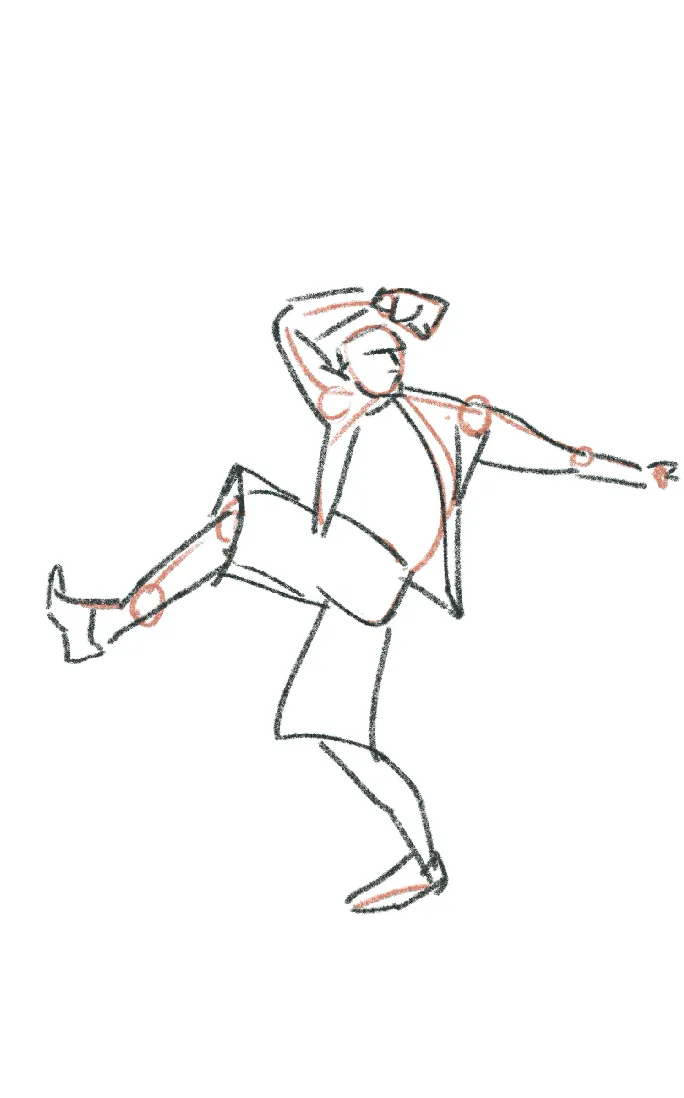
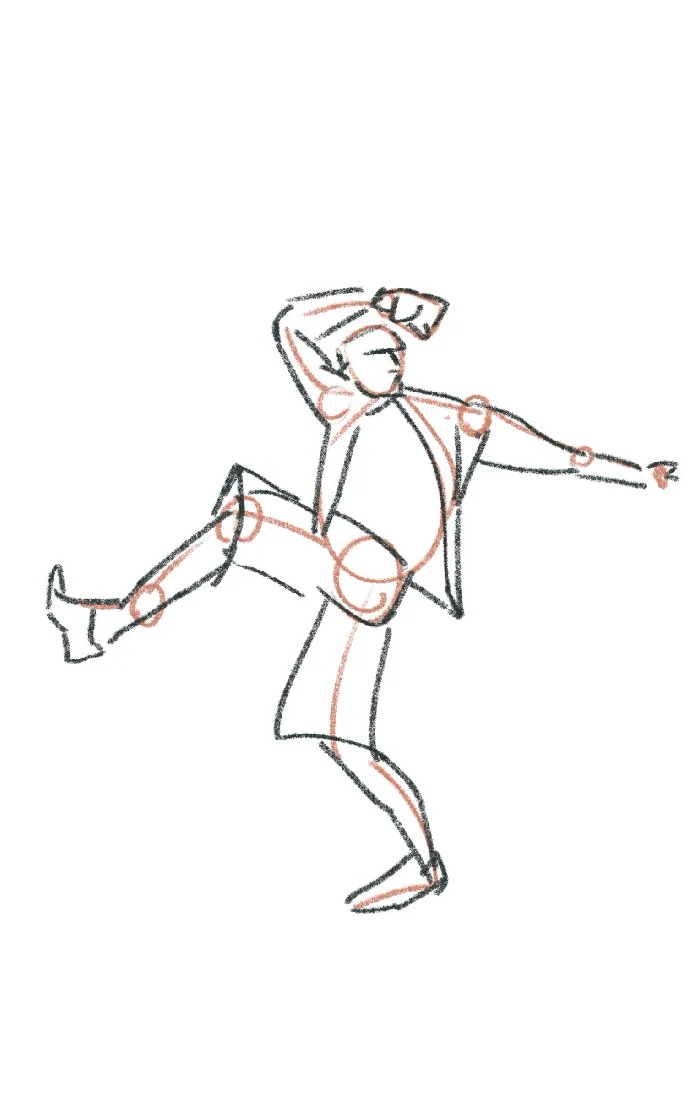
Time-lapse stops on the finished drawing

diff --git a/app/index.html b/app/index.html
@@ -62,7 +62,7 @@
         <img src="/assets/img/session.webp" width="1600" height="1090" alt="The session player running a one-minute pose of a dancer mid-kick, with the countdown and controls along the bottom" fetchpriority="high">
       </figure>
       <figure class="print clip">
-        <video class="tl-video" src="/assets/img/timelapse-1min.mp4" poster="/assets/img/timelapse-1min.webp" width="684" height="1098" muted loop playsinline preload="metadata" aria-label="Time-lapse of a one-minute drawing of the same pose: a loose red gesture first, then the ink line over it"></video>
+        <video class="tl-video" src="/assets/img/timelapse-1min.mp4" poster="/assets/img/timelapse-1min.webp" width="684" height="1098" muted playsinline preload="metadata" aria-label="Time-lapse of a one-minute drawing of the same pose: a loose red gesture first, then the ink line over it"></video>
       </figure>
       <img class="torn" src="/assets/img/sketch-1min.webp" width="640" height="583" alt="" loading="lazy">
     </div>

diff --git a/app/assets/sketchbook.js b/app/assets/sketchbook.js
@@ -57,7 +57,7 @@
   });
 })();
 
-// The one-minute time-lapse plays only while it is on screen, and not at all with reduced motion (the poster shows the finished drawing).
+// The one-minute time-lapse plays once while it is on screen and stops on the finished drawing, and not at all with reduced motion (the poster shows the finished drawing).
 (function () {
   var v = document.querySelector('.tl-video');
   if (!v) return;
@@ -66,6 +66,6 @@
   v.muted = true;
   if (!('IntersectionObserver' in window)) { v.play().catch(function () {}); return; }
   new IntersectionObserver(function (entries) {
-    if (entries[0].isIntersecting) v.play().catch(function () {}); else v.pause();
+    if (entries[0].isIntersecting) { if (!v.ended) v.play().catch(function () {}); } else v.pause();
   }, { threshold: 0.35 }).observe(v);
 })();
